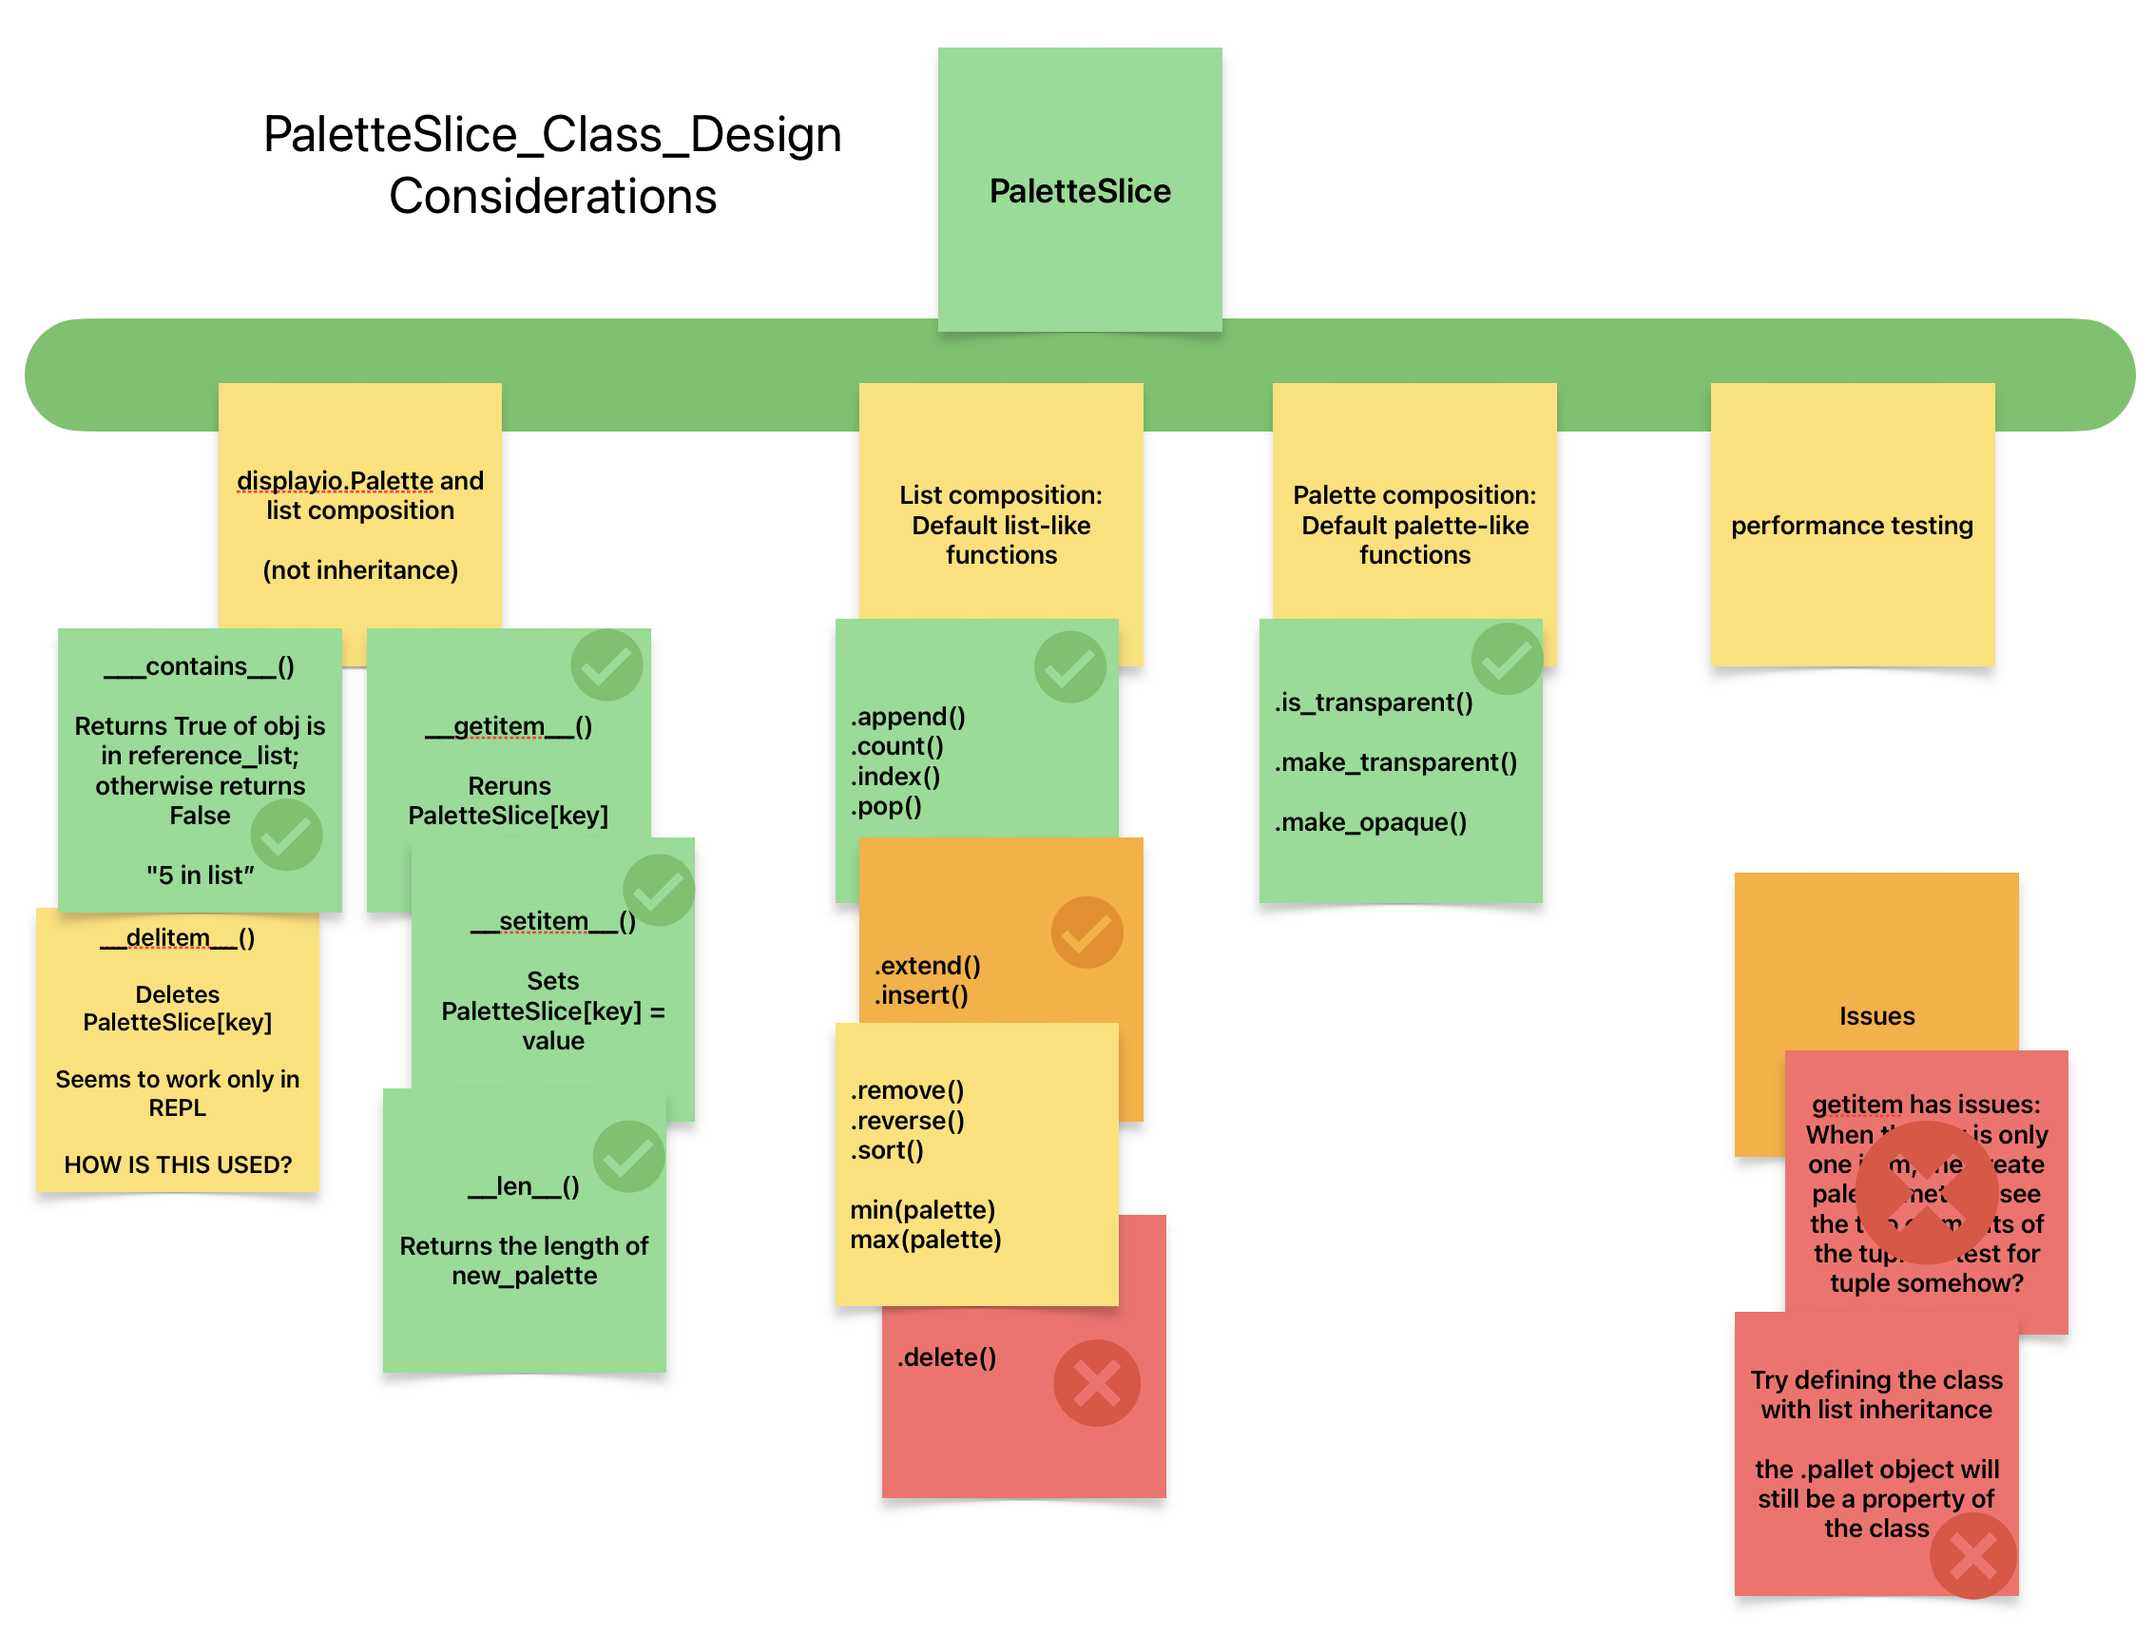
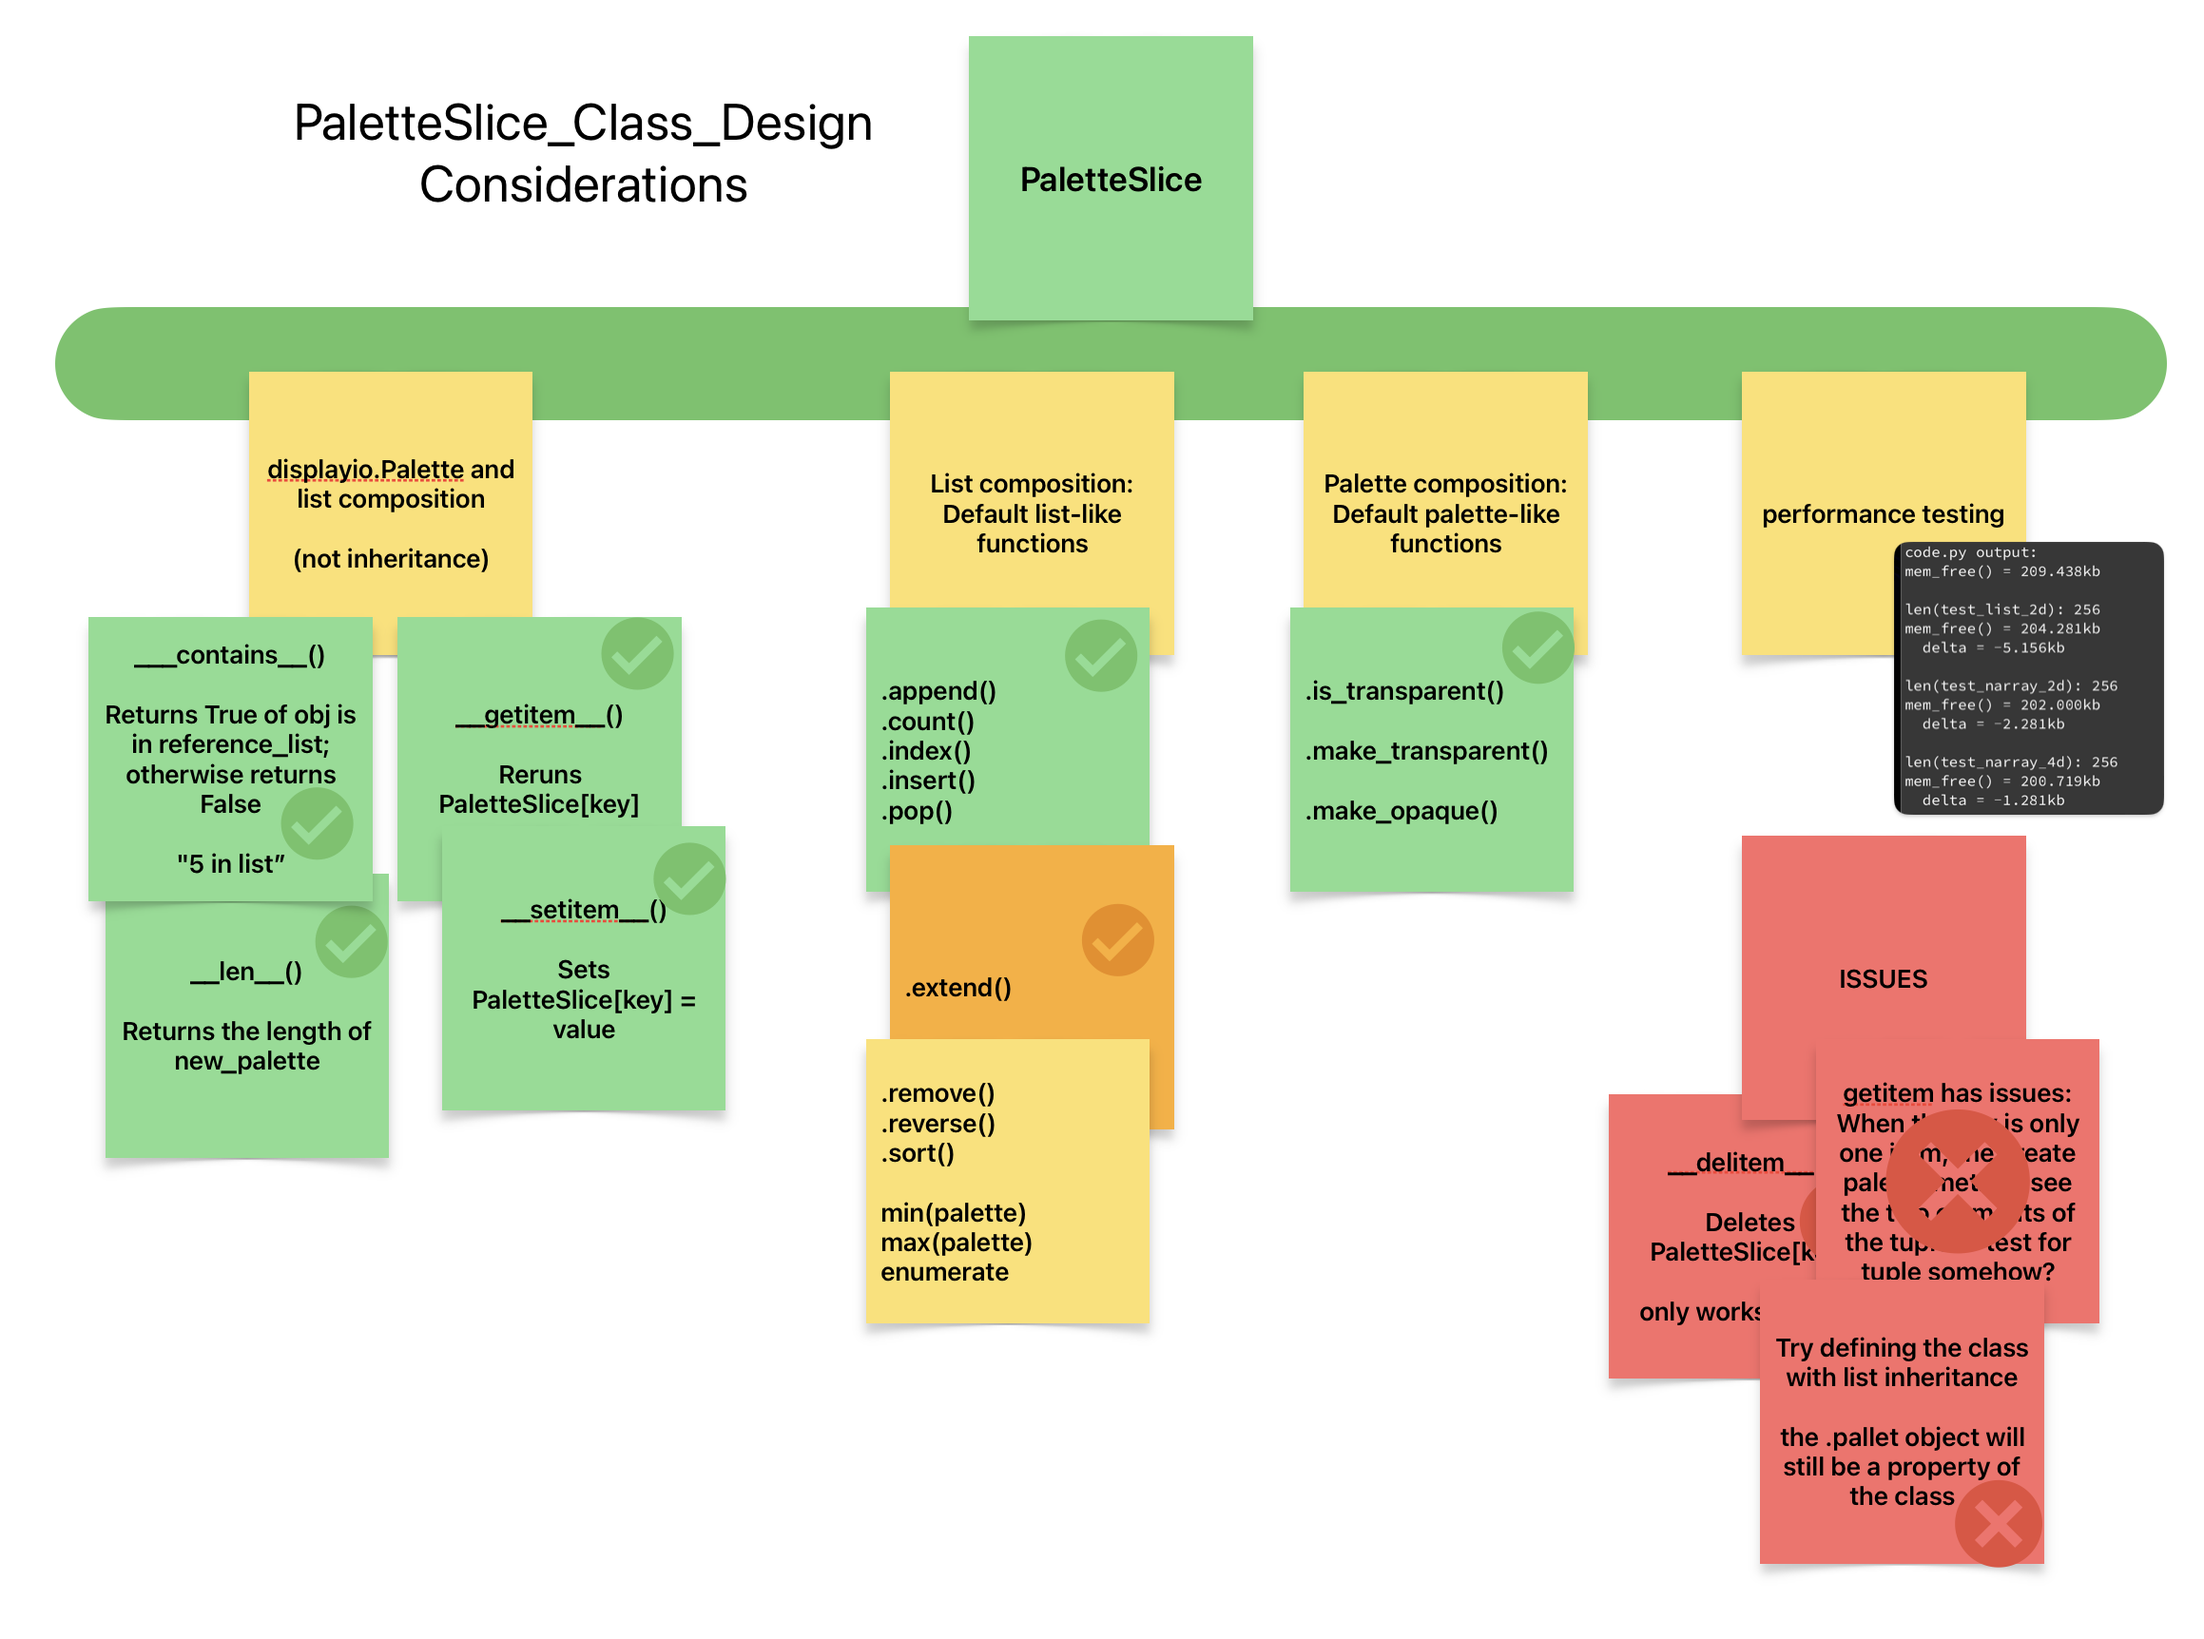
add and test insert() method; update docs

diff --git a/examples/paletteslice_acme_simpletest.py b/examples/paletteslice_acme_simpletest.py
@@ -65,8 +65,8 @@ print_palette(pal_sliceable[0:8])
 # Test of append()
 print("\n" + ("=" * 15))
 print("TEST append()")
-test = 0xF0F0F0
-print(f"  value to insert: {test:#08x}")
+test_value = 0xF0F0F0
+print(f"  value to append: {test_value:#08x}")
 
 (last_color, last_transparency) = pal_sliceable.reference_list[-1]
 length = len(pal_sliceable)
@@ -74,7 +74,7 @@ print(
     f"length BEFORE append: {length} last item: {last_color:#08x} {last_transparency}"
 )
 
-pal_sliceable.append(test)
+pal_sliceable.append(test_value)
 
 (last_color, last_transparency) = pal_sliceable.reference_list[-1]
 length = len(pal_sliceable)
@@ -82,53 +82,79 @@ print(
     f"length  AFTER append: {length} last item: {last_color:#08x} {last_transparency}"
 )
 
+# Test of insert()
+print("\n" + ("=" * 15))
+print("TEST insert()")
+test_value = 0xA0A0A0
+test_index = 100
+print(f"  value to insert: {test_value:#08x} at index: {test_index}")
+
+(old_color, old_transparency) = pal_sliceable.reference_list[test_index]
+length = len(pal_sliceable)
+print(f"length BEFORE insert: {length} item: {old_color:#08x} {old_transparency}")
+
+pal_sliceable.insert(test_index, test_value)
+
+(new_color, new_transparency) = pal_sliceable.reference_list[test_index]
+length = len(pal_sliceable)
+print(f"length  AFTER insert: {length} item: {new_color:#08x} {new_transparency}")
+
 # Test of is_transparent(), make_transparent(), make_opaque()
 print("\n" + ("=" * 15))
-test = -1  # Index to test
+test_value = -1  # Index to test
 print("TEST is_transparent(), make_transparent(), make_opaque()")
-print(f"  index value for test: {test}")
-print(f"  is_transparent: {pal_sliceable.is_transparent(test)}")
-pal_sliceable.make_transparent(test)
-print(f"AFTER make_transparent -> is_transparent: {pal_sliceable.is_transparent(test)}")
-pal_sliceable.make_opaque(test)
-print(f"AFTER make_opaque      -> is_transparent: {pal_sliceable.is_transparent(test)}")
+print(f"  index value for test: {test_value}")
+print(f"  is_transparent: {pal_sliceable.is_transparent(test_value)}")
+pal_sliceable.make_transparent(test_value)
+print(
+    f"AFTER make_transparent -> is_transparent: {pal_sliceable.is_transparent(test_value)}"
+)
+pal_sliceable.make_opaque(test_value)
+print(
+    f"AFTER make_opaque      -> is_transparent: {pal_sliceable.is_transparent(test_value)}"
+)
 
 # Test of count()
 print("\n" + ("=" * 15))
 print("TEST count()")
-test = 0xFFFFFF  # Color value for search
-print(f"  color value for search: {test:#08x}")
+test_value = 0xFFFFFF  # Color value for search
+print(f"  color value for search: {test_value:#08x}")
 
-print(f"number of occurrences: {pal_sliceable.count(test)}")
+print(f"number of occurrences: {pal_sliceable.count(test_value)}")
 
 # Test of index()
 print("\n" + ("=" * 15))
 print("TEST index()")
-test = 0xFFFFF0  # Color value for search
-print(f"  color value for search: {test:#08x}")
+test_value = 0xFFFFF0  # Color value for search
+print(f"  color value for search: {test_value:#08x}")
 
-print(f"first index found: {pal_sliceable.index(test)}")
+print(f"first index found: {pal_sliceable.index(test_value)}")
+
+test_value = 0xFFFFFF  # Color value for search
+print(f"  color value for search: {test_value:#08x}")
+
+print(f"first index found: {pal_sliceable.index(test_value)}")
 
 # Test of pop()
 print("\n" + ("=" * 15))
 print("TEST pop()")
-test = -1  # Remove last item
-print(f"  index to pop: {test}")
+test_value = -1  # Remove last item
+print(f"  index to pop: {test_value}")
 
 print(f"  length BEFORE pop: {len(pal_sliceable)}")
-print(f"value removed: {pal_sliceable.pop(test):#08x}")
+print(f"value removed: {pal_sliceable.pop(test_value):#08x}")
 print(f"  length  AFTER pop: {len(pal_sliceable)}")
 
 # Test of __contains__
 print("\n" + ("=" * 15))
 print("TEST __contains__")
-test = 0
-print(f"  value to find: {test}")
+test_value = 0
+print(f"  value to find: {test_value}")
 
-if test in pal_sliceable:
-    print(f"< {test} > in pal_sliceable (True)")
+if test_value in pal_sliceable:
+    print(f"< {test_value} > in pal_sliceable (True)")
 else:
-    print(f"< {test} > NOT in pal_sliceable (False)")
+    print(f"< {test_value} > NOT in pal_sliceable (False)")
 
 # Place the test image into a tile and append to the primary display group
 test_tile = displayio.TileGrid(test_bitmap, pixel_shader=test_palette_source)
@@ -142,11 +168,13 @@ primary_group.append(slice_label)
 
 # Show the test image and label
 display.show(primary_group)
+print("\n" + ("=" * 15))
 print("TEST of source image")
 slice_label.text = "PALETTE SLICE: source image and palette"
 time.sleep(2)
 
 # Continuous random slice test
+print("\n" + ("=" * 15))
 print("TEST of random slices")
 while True:
     # Create a random slice object; prohibit step == 0

diff --git a/cedargrove_paletteslice/paletteslice_acme.py b/cedargrove_paletteslice/paletteslice_acme.py
@@ -84,18 +84,6 @@ class PaletteSlice:
         self._reference_list[key] = working_list
         self._create_new_palette(self._reference_list)
 
-    def __delitem__(self, key):
-        """UNTESTED:
-        Delete a slice from the primary class displayio.Palette. Permanently modifies
-        reference_list and palette.
-        Usage is ``del PaletteSlice[key]``. ONLY WORKS IN REPL
-
-        param slice key: The target slice object to delete from the new color palette."""
-        """self._reference_list = del self._reference_list[key]
-        self._create_new_palette(self._reference_list)"""
-        # pylint: disable = (unnecessary-pass)
-        pass
-
     def __contains__(self, color):
         """Determine if reference_list contains the singleton color. Returns True or False.
         Usage is ``color in PaletteSlice.palette``.
@@ -152,8 +140,7 @@ class PaletteSlice:
         self._create_new_palette(self._reference_list)
 
     def insert(self, key, color):
-        """UNTESTED:
-        Insert an opaque color value into the primary class palette at
+        """Insert an opaque color value into the primary class palette at
         slice object key. Permanently modifies reference_list and palette.
         Usage is ``PaletteSlice.insert(key, color)``.
 
